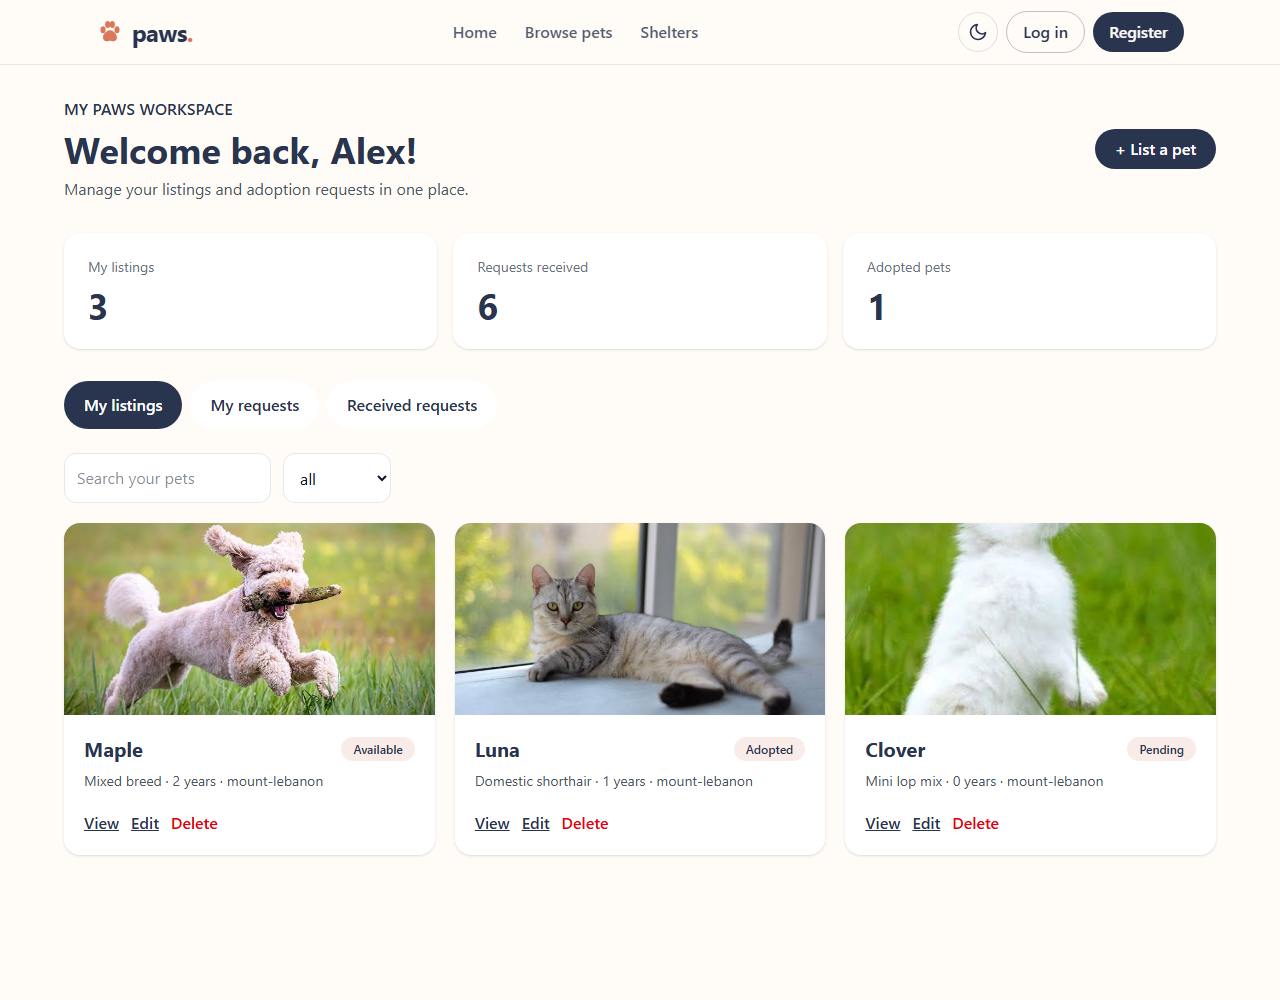
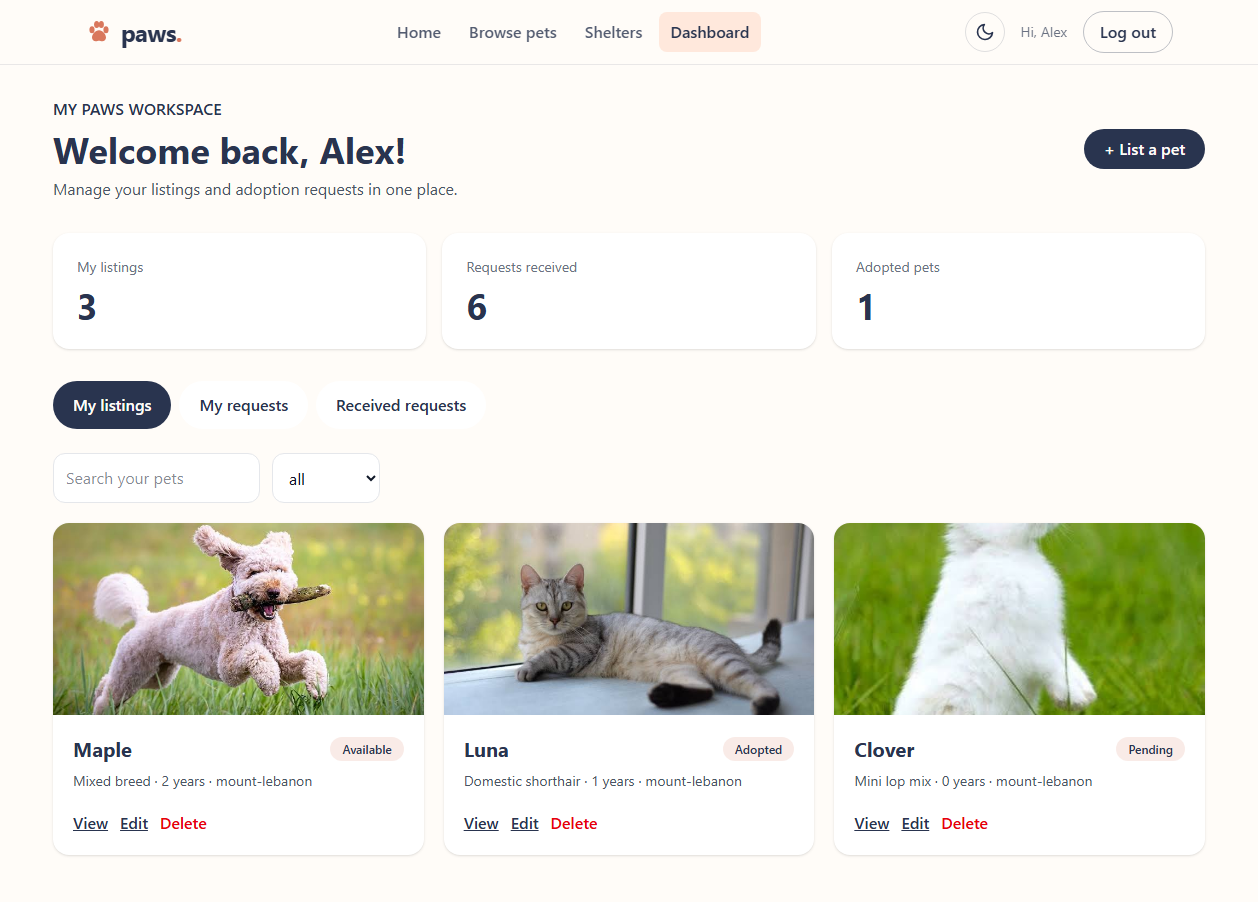
Explain in the README that the Dashboard link needs a login (#17)
* Explain in the README that the Dashboard link needs a login

* Show the dashboard after logging in in the README screenshot

diff --git a/README.md b/README.md
@@ -76,6 +76,10 @@ To log in by hand, use one of these. All demo accounts use the password **`PawsD
 | `alex@example.com` | Adopter |
 | `central@example.com` | Shelter (Central Paws Rescue) |
 
+**Where is the Dashboard?** The **Dashboard** link only shows in the top bar after you log in. Logging in also takes you straight to it.
+
+**Note:** refreshing the page logs you out, because the login is only kept in the pretend data (see [How the mock data works](#how-the-mock-data-works)). Just log in again.
+
 ## Screenshots
 
 **Home page**
@@ -96,8 +100,8 @@ To log in by hand, use one of these. All demo accounts use the password **`PawsD
 **Shelter Details**
 ![Shelter details page for Central Paws Rescue](docs/screenshots/shelter-details.png)
 
-**Dashboard**
-![Dashboard with the user's pet listings](docs/screenshots/dashboard.png)
+**Dashboard** (after logging in with "Log in as Adopter": the top bar now shows Dashboard, "Hi, Alex" and Log out)
+![Dashboard after logging in as Alex, showing his pet listings](docs/screenshots/dashboard.png)
 
 **Add a pet**
 ![Form to list a new pet](docs/screenshots/pet-form-add.png)
@@ -137,7 +141,7 @@ To log in by hand, use one of these. All demo accounts use the password **`PawsD
 - **Shelter Details** (`/shelters/:id`): one shelter's information and the pets it cares for.
 
 ### Shawki EL Ghandour: Dashboard and Add/Edit pet form
-- **Dashboard** (`/dashboard`): the user's own page, with three tabs. **My listings** shows the pets they listed, with a search box, a status filter, and View, Edit and Delete buttons. **My requests** shows the adoption requests they sent. **Received requests** shows requests for their pets, with Approve and Reject buttons. Approving a request marks the pet as adopted. Counters at the top show the number of listings, received requests and adopted pets.
+- **Dashboard** (`/dashboard`): the user's own page, reached from the top bar once you are logged in. It has three tabs. **My listings** shows the pets they listed, with a search box, a status filter, and View, Edit and Delete buttons. **My requests** shows the adoption requests they sent. **Received requests** shows requests for their pets, with Approve and Reject buttons. Approving a request marks the pet as adopted. Counters at the top show the number of listings, received requests and adopted pets.
 - **Add/Edit pet form** (`/pets/new` and `/pets/:id/edit`): one form to list a new pet or change an existing one. Required fields are checked before saving, and you can only edit your own listings.
 - For now, the dashboard and the form always use the demo account (Alex), not the account that logged in.
 
